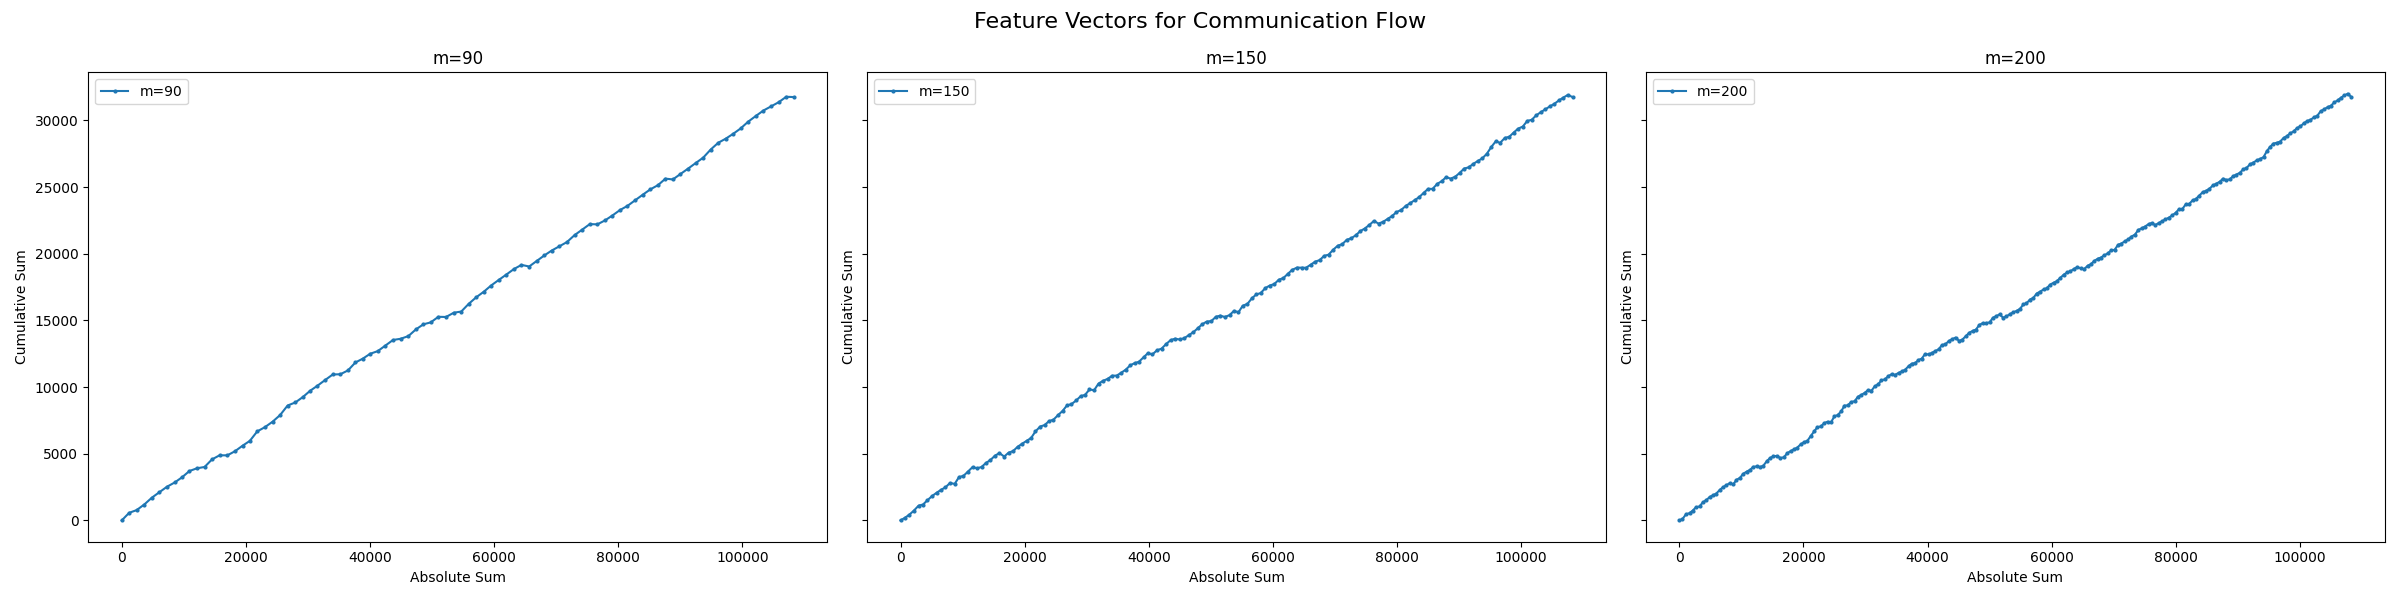
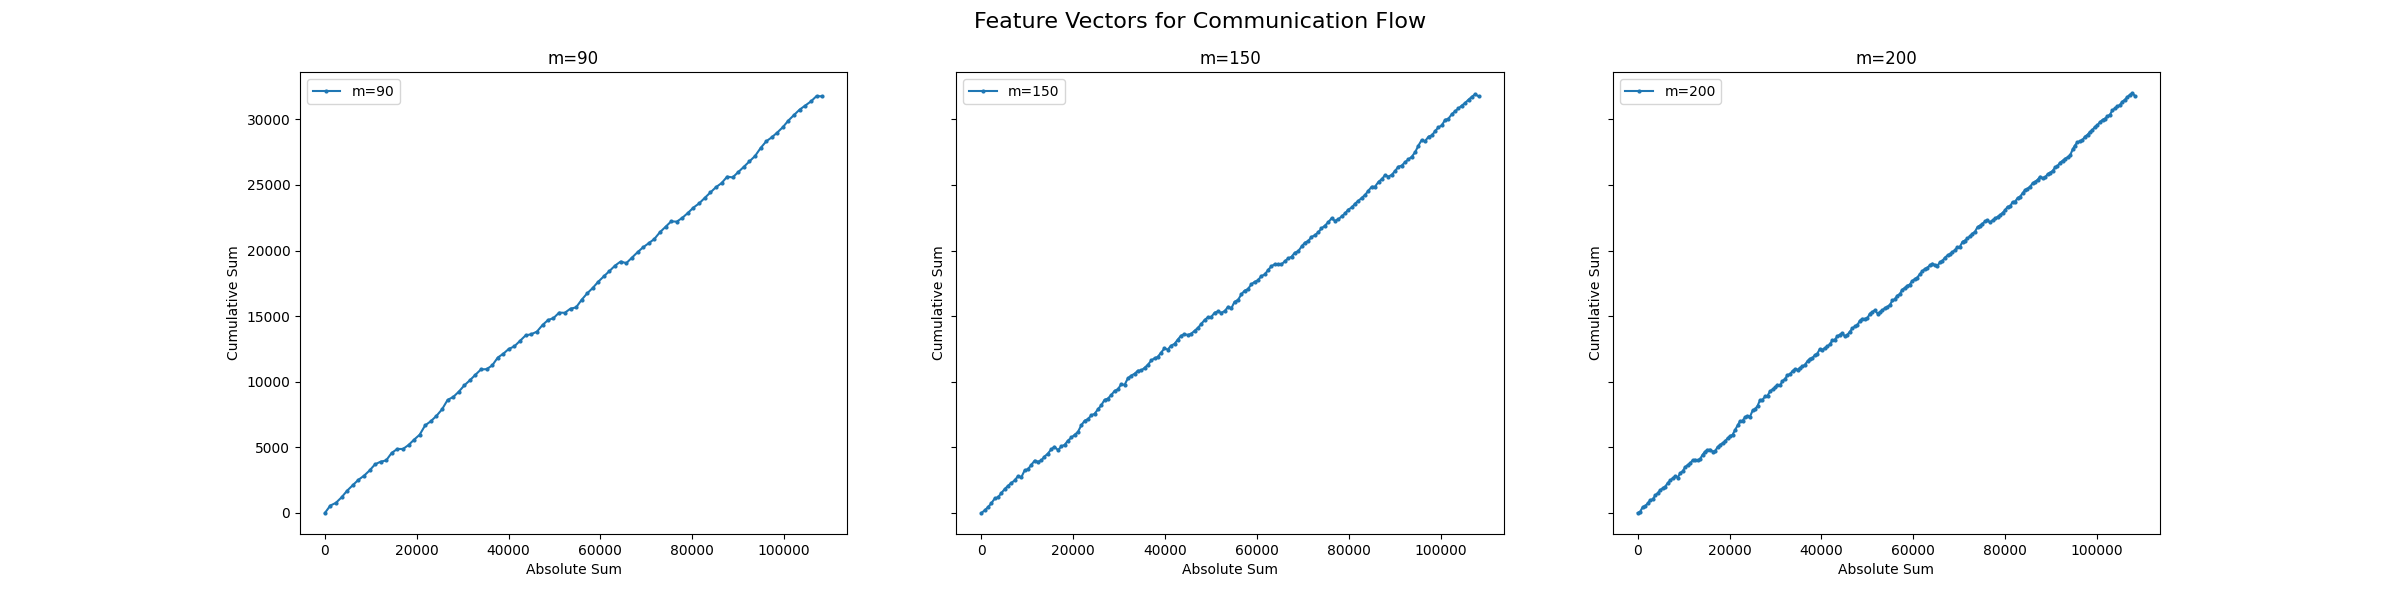
task 3 last update

diff --git a/Assignment_2/task3/codes/task3_predefined_m.py b/Assignment_2/task3/codes/task3_predefined_m.py
@@ -1,0 +1,134 @@
+import os
+import pandas as pd
+import numpy as np
+import matplotlib.pyplot as plt
+
+def adjust_packet_size(row):
+    if row['Direction'] == 'outgoing':
+        return row['PacketSize']
+    else:
+        return -row['PacketSize']
+
+
+def load_and_add_data(file_path):
+    df = pd.read_csv(file_path)
+    df['AdjustedPacketSize'] = df.apply(adjust_packet_size, axis=1)
+    return df
+
+
+def calculate_statistics(df):
+    incoming_packets = df[df['Direction'] == 'incoming'].shape[0]
+    outgoing_packets = df[df['Direction'] == 'outgoing'].shape[0]
+    incoming_size_sum = df[df['Direction'] == 'incoming']['PacketSize'].sum()
+    outgoing_size_sum = df[df['Direction'] == 'outgoing']['PacketSize'].sum()
+
+    print("Incoming packets:", incoming_packets)
+    print("Outgoing packets:", outgoing_packets)
+    print("Sum of incoming packet sizes:", incoming_size_sum)
+    print("Sum of outgoing packet sizes:", outgoing_size_sum)
+
+
+def compute_cumulative_representation(df):
+    cumulative_sum = 0
+    absolute_sum = 0
+    cumulative_packets = [(0, 0)]
+
+    for size in df['AdjustedPacketSize']:
+        cumulative_sum += size
+        absolute_sum += abs(size)
+        cumulative_packets.append((absolute_sum, cumulative_sum))
+
+    cumulative_df = pd.DataFrame(cumulative_packets, columns=["AbsoluteSum", "CumulativeSum"])
+    return cumulative_df
+
+
+def generate_feature_vectors(cumulative_df, m_values, fp):
+    output_directory = "../output/feature_vectors"
+    os.makedirs(output_directory, exist_ok=True)
+    base_name = os.path.splitext(os.path.basename(fp))[0]
+
+    for m in m_values:
+        indices = np.linspace(0, len(cumulative_df) - 1, m).astype(int)
+        sampled_features = cumulative_df.iloc[indices]
+
+        output_file_name = f"{base_name}_feature_vector_m_{m}.csv"
+        output_file_path = f"{output_directory}/{output_file_name}"
+
+        sampled_features.to_csv(output_file_path, index=False)
+        print(f"Feature vector for m={m} saved to {output_file_path}")
+
+
+def plot_feature_vectors_side_by_side(cumulative_df, m_values, fp):
+    output_directory = "../output/feature_vector_plots"
+    os.makedirs(output_directory, exist_ok=True)
+    base_name = os.path.splitext(os.path.basename(fp))[0]
+
+    num_subplots = len(m_values)
+    fig, axes = plt.subplots(1, num_subplots, figsize=(8 * num_subplots, 6), sharey=True)
+
+    if num_subplots == 1:
+        axes = [axes]
+
+    for idx, (ax, m) in enumerate(zip(axes, m_values)):
+        indices = np.linspace(0, len(cumulative_df) - 1, m).astype(int)
+        sampled_features = cumulative_df.iloc[indices]
+
+        ax.plot(sampled_features["AbsoluteSum"], sampled_features["CumulativeSum"], marker=".", markersize=4, label=f"m={m}")
+
+        ax.set_title(f"m={m}")
+        ax.set_xlabel("Absolute Sum")
+        ax.set_ylabel("Cumulative Sum")
+        ax.legend()
+
+    plt.suptitle("Feature Vectors for Communication Flow", fontsize=16)
+
+    output_file_path = os.path.join(output_directory, f"{base_name}_feature_vectors_side_by_side.png")
+    plt.savefig(output_file_path)
+    print(f"Plot saved to {output_file_path}")
+
+    plt.show()
+
+
+base_directory = "../dataset/packet_size_and_direction"
+file_names = [
+    "scenario1_doorsensor_to_coordinator.csv",
+    "scenario1_ledvance_to_coordinator.csv",
+    "scenario1_osarm_to_coordinator.csv",
+    "scenario2_ledvance_to_coordinator.csv",
+    "scenario2_osarm_to_coordinator.csv",
+    "scenario2_waterleaksensor_to_coordinator.csv",
+    "scenario3_doorsensor_to_coordinator.csv",
+    "scenario3_ledvance_to_coordinator.csv",
+    "scenario3_motionsensor_to_coordinator.csv",
+    "scenario4_ledvance_to_coordinator.csv",
+    "scenario4_motionsensor_to_coordinator.csv",
+    "scenario4_osarm_to_coordinator.csv",
+    "scenario5_ledvance_to_coordinator.csv",
+    "scenario5_motionsensor_to_coordinator.csv",
+    "scenario5_osarm_to_coordinator.csv",
+    "scenario5_outdoormotionsensor_to_coordinator.csv",
+    "scenario6_frientdoorsensor_to_coordinator.csv",
+    "scenario6_ledvance_to_coordinator.csv",
+    "scenario6_nedisdoorsensor_to_coordinator.csv",
+    "scenario6_osarm_to_coordinator.csv"
+]
+file_paths = [f"{base_directory}/{file_name}" for file_name in file_names]
+
+print("Available Files:")
+for idx, file_path in enumerate(file_names, start=1):
+    print(f"{idx}: {file_path}")
+
+selected_index = int(input("Enter the number corresponding to the file you want to process: ").strip()) - 1
+
+if 0 <= selected_index < len(file_paths):
+    file_path = file_paths[selected_index]
+    print(f"\nSelected file: {file_path}")
+
+    df = load_and_add_data(file_path)
+    calculate_statistics(df)
+    cumulative_df = compute_cumulative_representation(df)
+    m_values = [90, 150, 200]
+    generate_feature_vectors(cumulative_df, m_values, file_path)
+    plot_feature_vectors_side_by_side(cumulative_df, m_values, file_path)
+else:
+    print("Invalid selection. Please try again.")

diff --git a/Assignment_2/task3/codes/task3_with_m_toinput.py b/Assignment_2/task3/codes/task3_with_m_toinput.py
@@ -1,4 +1,3 @@
-import os
 import pandas as pd
 import numpy as np
 import matplotlib.pyplot as plt
@@ -42,55 +41,17 @@ def compute_cumulative_representation(df):
     return cumulative_df
 
 
-def generate_feature_vectors(cumulative_df, m_values, input_file_name):
-    output_directory = "../output/feature_vectors"
-    if not os.path.exists(output_directory):
-        os.makedirs(output_directory)
+def plot_feature_vector(cumulative_df, m):
+    indices = np.linspace(0, len(cumulative_df) - 1, m).astype(int)
+    sampled_features = cumulative_df.iloc[indices]
 
-    base_name = os.path.splitext(os.path.basename(input_file_name))[0]
+    plt.figure(figsize=(8, 6))
+    plt.plot(sampled_features["AbsoluteSum"], sampled_features["CumulativeSum"], marker=".", markersize=4, label=f"m={m}")
 
-    for m in m_values:
-        indices = np.linspace(0, len(cumulative_df) - 1, m).astype(int)
-        sampled_features = cumulative_df.iloc[indices]
-
-        output_file_name = f"{base_name}_feature_vector_m_{m}.csv"
-        output_file_path = os.path.join(output_directory, output_file_name)
-
-        sampled_features.to_csv(output_file_path, index=False)
-        print(f"Feature vector for m={m} saved to {output_file_path}")
-
-
-def plot_feature_vectors_side_by_side(cumulative_df, m_values, input_file_name):
-    output_directory = "../output/feature_vector_plots"
-    if not os.path.exists(output_directory):
-        os.makedirs(output_directory)
-
-    base_name = os.path.splitext(os.path.basename(input_file_name))[0]
-
-    num_subplots = len(m_values)
-    fig, axes = plt.subplots(1, num_subplots, figsize=(8 * num_subplots, 6), sharey=True)
-
-    if num_subplots == 1:
-        axes = [axes]
-
-    for idx, (ax, m) in enumerate(zip(axes, m_values)):
-        indices = np.linspace(0, len(cumulative_df) - 1, m).astype(int)
-        sampled_features = cumulative_df.iloc[indices]
-
-        ax.plot(sampled_features["AbsoluteSum"], sampled_features["CumulativeSum"], marker=".", markersize=4, label=f"m={m}")
-
-        ax.set_title(f"m={m}")
-        ax.set_xlabel("Absolute Sum")
-        ax.set_ylabel("Cumulative Sum")
-        ax.legend()
-
-    plt.suptitle("Feature Vectors for Communication Flow", fontsize=16)
-    plt.tight_layout()
-
-    output_file_path = os.path.join(output_directory, f"{base_name}_feature_vectors_side_by_side.png")
-    plt.savefig(output_file_path)
-    print(f"Plot saved to {output_file_path}")
-
+    plt.title(f"Feature Vector for m={m}")
+    plt.xlabel("Absolute Sum")
+    plt.ylabel("Cumulative Sum")
+    plt.legend()
     plt.show()
 
 
@@ -133,8 +94,7 @@ if 0 <= selected_index < len(file_paths):
     calculate_statistics(df)
     cumulative_df = compute_cumulative_representation(df)
 
-    m_values = [90, 150, 200]
-    generate_feature_vectors(cumulative_df, m_values, file_path)
-    plot_feature_vectors_side_by_side(cumulative_df, m_values, file_path)
+    m = int(input("Enter the value for m (number of sampled points): ").strip())
+    plot_feature_vector(cumulative_df, m)
 else:
     print("Invalid selection. Please try again.")
